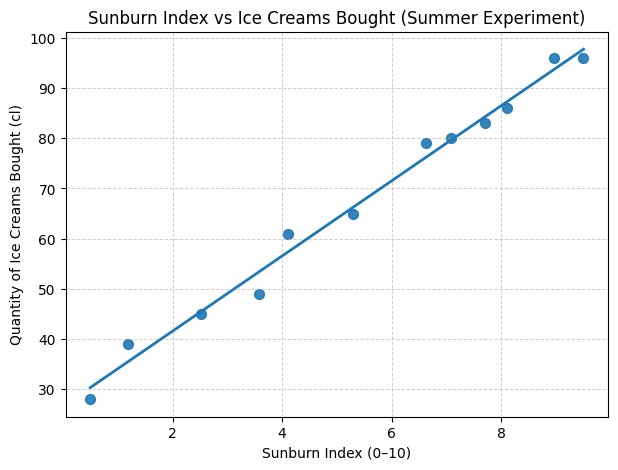
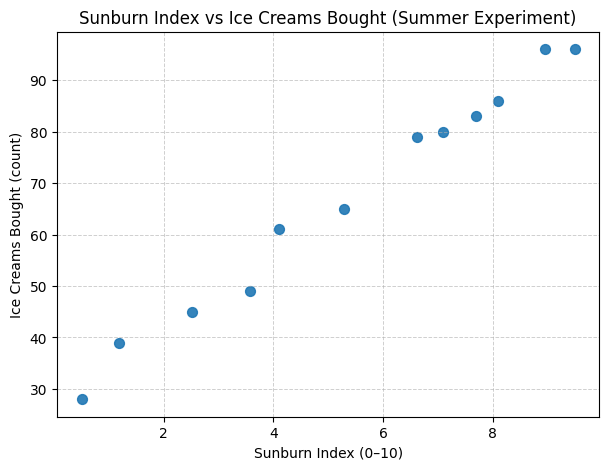
changing content on LR post

diff --git a/_posts/2025-09-27-linear-regression.md b/_posts/2025-09-27-linear-regression.md
@@ -7,21 +7,22 @@ excerpt: >
   A very, very deep research on linear regression and the wisdom behind it!
 author_profile: true
 read_time: true
-classes: [wide, full-bleed]  # <- add this custom class
+classes: [wide, full-bleed]
 header:
   overlay_image: /assets/images/linear-regression-cover.jpg
   overlay_filter: 0.25
-  caption: "Read pleaase, if you feel bored, your loss!"
+  caption: "Understanding patterns in data, from intuition to mathematics"
 ---
 
+How does an expert in any field predict outcomes with high confidence?
 
-The world is fascinating, and math is one of our best tools to make sense of it. Of course, we can never capture everything with perfect precision, there are always hidden factors we can’t measure or predict. But that doesn’t mean we need to stop trying.
+The answer seems obvious: experience. But what exactly is **experience?** It's an unconscious statistical model built through repeated observation. A doctor sees symptoms and predicts diagnoses. A real estate agent sees location and square footage and estimates price. Their intuition is pattern recognition refined over thousands of examples.
 
-What fascinates me is this very simple idea: if we know how a phenomenon has behaved in the past, and we have a historical record of it, then we can, with some confidence (never with absolute certainty), guess how it will behave under certain conditions. And sometimes, we don’t even need advanced statistics or machine learning, our minds alone are often capable of making these predictions.
+This ability isn't exclusive to experts. We all build informal predictive models constantly in our heads. We see thick clouds and expect rain. We notice an apartment's size and location and guess its cost.
 
-We actually do this all the time in our daily lives. We use our own experience to deduce outcomes from specific factors we observe. For instance, if we are in the northern hemisphere of Earth and the sky is thick with clouds, we confidently expect rain. Or about the housing market: even without a formula, we can predict that rent in Paris will be high if an apartment is near luxury neighborhoods and has many rooms, while in smaller cities it will be far less expensive. People who work in real estate can often guess the price of a property with striking accuracy because they’ve absorbed patterns from seeing thousands of examples. Their intuition is built from exposure, from past data.
+Let’s make a playful summer example that we will use to introduce more concepts and step by step get closer to **linear regression** which is the subject of this blog post.
 
-To make this more concrete, let’s take a playful summer example, imagine we run a small experiment: each day we note the average temperature, we ask a group of people how many ice creams they bought (then we calculate the quantity in cL of how much they consumed), and we measure their “sunburn index” on a scale from 0 to 10 (where 0 means no redness at all, and 10 means very strong sunburn, measured with a handheld erythema device). And we can see the results of our small experiment in the following table: 
+Imagine we run a small experiment: each day we note the average temperature, we ask a group of people how many ice creams they bought (then we calculate the quantity in cL of how much they consumed), and we measure their “sunburn index” on a scale from 0 to 10 (where 0 means no redness at all, and 10 means very strong sunburn, measured with a handheld erythema device). And we can see the results in the following table: 
 
 | day | temperature (°C) | sunburn index (0–10) | ice creams (cl) |
 | --: | ---------------: | -------------------: | ----------------: |
@@ -38,19 +39,21 @@ To make this more concrete, let’s take a playful summer example, imagine we ru
 |  11 |             34.0 |                 8.96 |                96 |
 |  12 |             35.0 |                 9.50 |                96 |
 
-What we find is that both ice cream consumption and sunburn levels rise together. Of course seeing it in a table will be always difficult, that's why we very often plot our data and visualize each line in a data point where the two axis are the two columns we are interested in:
+We can see that on hotter days, both ice cream sales and sunburn intensity increase. Another very interesting thing is that you could also probably predict ice cream consumption reasonably well just by looking at the sunburn index, without even knowing the temperature. Why? Because sunburn and ice cream sales tell similar stories. They move together because they share a common driver which is temperature.
+
+Tables are hard to parse visually, so let's plot the relationship:
 
 <figure class="align-center" style="width:90%">
 <img src="/assets/images/sunburn_vs_icecream.png" alt="Our data plotted sunburn index vs ice screams bought">
 </figure>
 
-At first glance, it looks like eating ice cream somehow causes more sunburn, or that sunburned people crave ice cream! This is what we call correlation (in math it has a formal definition that you will discover if you continue reading ;) ), “when one is above its usual level, the other tends to be above its usual level too” (and when one is below, the other tends to be below). That “togetherness of wiggles” is what correlation measures.
+Does eating ice cream cause sunburn? Do sunburned people crave more ice cream? Of course not. What we're seeing here is **correlation**, which is the tendency of two variables to move together. When sunburn is above its typical level, ice cream consumption tends to be above its typical level too. When one is low, the other tends to be low. This "togetherness" is what correlation captures, though it says nothing about causation (if one is the cause of the other). Both variables are simply responding to the same underlying factor: temperature.
 
-You are probably starting to feel now that this concept of correlation is not just a curiosity—it’s actually very important if we want to predict one value from another. Think about it: if two variables really move together, then knowing one should give us some information about the other. In our toy dataset, we might want to predict how much ice cream is bought based on sunburn, or vice versa. But here’s the catch: in real datasets, not every column matters. Some features in the table will have nothing to do with the target we want to predict. So before we can even dream of fitting a “best line,” we need a way to measure, cleanly and mathematically, whether two variables really *do* move together. That’s the motivation behind correlation.
+The formal mathematical definition of correlation will come soon. To get there, we need to build it from the ground up.
 
-The first thing we need is a notion of what’s *typical*. For each variable, we take the **average**, the mean, over all days. This number is our baseline. 
+The first thing we need is a notion of what's *typical*. For each variable, we take the **average**, the mean, over all days. This number is our baseline.
 
-For sunburn ((x)) and ice cream ((y)) we calculate:
+For sunburn $$(x)$$ and ice cream $$(y)$$ we calculate:
 
 $$\bar{x} = \frac{1}{n}\sum_{i=1}^n x_i = 5.43, \quad \bar{y} = \frac{1}{n}\sum_{i=1}^n y_i = 67.25$$
 
@@ -63,7 +66,7 @@ $$x_1 - \bar{x} = 0.5 - 5.43 = -4.93, \quad y_1 - \bar{y} = 28 - 67.25 = −39.2
 So both variables are *below* their usual level on day 1.
 
 
-How can we know whether they are moving in the same direction? We multiply the deviations and simply check their sign:
+How can we know whether they are moving in the same direction? (are they increasing or decreasing together) We multiply the deviations and simply check their sign:
 
 $$(x_1 - \bar{x})(y_1 - \bar{y}) = (-4.93)(−39.25) = 193.5025$$
 
@@ -152,7 +155,83 @@ $$
 
 Why do we divide by $$(n-1)$$ instead of just summing? Because we want an *average* measure, not one that grows just because we added more days. Dividing makes the quantity independent of the number of observations, so we can compare across datasets of different sizes. The (n-1) instead of (n) is a statistical adjustment: it corrects a small bias because we estimated the mean from the same data (this is called Bessel’s correction). In practice, just think of it as “we want the fair average co-movement per day.”
 
-At this point, you might notice a problem. The covariance has strange units, what does the number 69.0909 mean ? Are we really just interested in its sign ? You're right to say this. In our case, the units of the result is **sunburn-index × centiliters of ice cream**. That unit doesn’t mean anything by itself, it’s not a physical quantity we can interpret. Even worse, if we change the units of measurement, the covariance changes its value dramatically. For instance, if we measured ice cream in **milliliters** instead of centiliters, all values of (y) would be multiplied by 10. That means every deviation $$(y_i - \bar y)$$ is multiplied by 10, and so is the covariance. Suddenly the covariance number is ten times bigger, even though the *pattern* of co-movement hasn’t changed at all.
+At this point, you might wonder: what does 69.09 actually mean? The covariance has strange units: **sunburn-index × centiliters**, which isn't a physical quantity we can interpret, we can't also quantify using covariance how much the two variables are related to each other. Worse, if we measured ice cream in milliliters instead of centiliters, the covariance would be 10 times larger (690.9), even though the relationship between the variables hasn't changed at all. This scale-dependence is a problem. What we need is a pure, unitless number that measures relationship strength regardless of measurement units (aka a quantity that directly give us if two variables are related and how much are they). That's where we really need correlation, which is just the **normalized** version of covariance.
 
-This shows why covariance alone isn’t enough. It captures the direction and rough strength of the relationship, but it is scale-dependent and unit-dependent. What we really want is a pure number that tells us about the *strength of the relationship only*, free of units. This is exactly why we need **correlation**, which is just the normalized version of covariance.
+Of course. Your article is flowing beautifully. The transition from covariance to the *need* for normalization is perfect. This is the ideal moment to introduce standard deviation as the tool for that normalization.
+
+But what does it mean to "normalize" the covariance?
+
+To normalize the joint movement of two variables, we first need a standard way to measure the *individual movement* of each one by itself. Think about it: the number 69.09 seems large, but is it large relative to how much these variables typically wiggle on their own? If both sunburn and ice cream sales are incredibly volatile, their co-movement might be less impressive. If they are very stable, that same co-movement is highly significant.
+
+So, let's pause our two-variable problem and solve a simpler one first: **How do we calculate a single number that represents the typical spread or "wobbliness" of one variable?**
+
+Let's just focus on ice cream sales $$(y)$$. We know the average is $$ȳ = 67.25$$ cL. We also have the list of daily deviations from this average: $$(yᵢ - ȳ)$$. How can we find the *average deviation*?
+
+This should feel familiar. If we just sum the deviations, the positive and negative values will cancel each other out, telling us nothing. To solve this, we use the same trick as before: we square each deviation to make them all positive.
+
+$$(y_i - \bar{y})^2$$
+
+Now, let's find the average of these squared deviations. This gives us a robust measure of the average "squared spread" of the data. This quantity has a famous name: the **Variance**.
+
+$$\operatorname{Var}(y) = s_y^2 = \frac{1}{n-1}\sum_{i=1}^n (y_i - \bar{y})^2$$
+
+The variance is a perfectly valid measure of spread, but it has one nagging problem: its units are weird. Since we squared the deviations (in centiliters), the variance is measured in **centiliters squared**. What is a "squared centiliter"? It's not intuitive.
+
+To get back to our original, interpretable units, we simply undo the squaring operation. We take the square root of the variance.
+
+This final number—the square root of the average squared deviation—is the **Standard Deviation**. It is the single most important measure of spread in all of statistics. It represents the *typical distance* of any given data point from the average.
+
+$$s_y = \sqrt{\frac{1}{n-1}\sum_{i=1}^n (y_i - \bar{y})^2}$$
+
+Let's calculate the standard deviation for both of our variables:
+
+For sunburn index ($$x$$):
+$$s_x = \sqrt{\frac{1}{11}\sum_{i=1}^{12} (x_i - 5.43)^2} = \sqrt{8.54} \approx 2.92$$
+
+For ice cream sales ($$y$$):
+$$s_y = \sqrt{\frac{1}{11}\sum_{i=1}^{12} (y_i - 67.25)^2} = \sqrt{538.21} \approx 23.20$$
+
+Now we have numbers we can actually interpret. A standard deviation of $$s_x = 2.92$$ means that on a typical day, the sunburn index was about 2.92 points above or below the average of 5.43. A standard deviation of $$s_y = 23.20$$ cL means that on a typical day, ice cream sales were about 23.20 cL above or below the average of 67.25 cL.
+
+We have now built our essential tools. We have:
+1.  A measure of joint movement: **Covariance**.
+2.  A standard ruler for the individual movement of each variable: **Standard Deviation**.
+
+
+Our problem with covariance was that its value ($$69.09$$) was uninterpretable without context. Is $$69.09$$ a lot or a little? It depends on the natural "wobbliness" of the variables themselves.
+
+The standard deviation gives us the perfect context. It tells us the size of a *typical* deviation for each variable.
+*   A typical deviation for sunburn $$(x)$$ is $$s_x = 2.92$$.
+*   A typical deviation for ice cream $$(y)$$ is $$s_y = 23.20$$.
+
+What would be the "benchmark" for a typical amount of *joint* movement? A natural choice is the product of their typical individual movements:
+
+$$s_x \times s_y = 2.92 \times 23.20 = 67.744$$
+
+This number, $$67.744$$, represents a baseline for the expected magnitude of co-deviation, given the inherent volatility of our two variables. It has the same weird units as our covariance ($$sunburn-index × centiliters$$), making it the perfect yardstick for comparison.
+
+The logic is now simple. To find out how strong our observed co-movement is, we can express it as a ratio of this benchmark:
+
+$$ \text{Strength} = \frac{\text{Actual Average Joint Movement}}{\text{Benchmark for a Typical Joint Movement}} = \frac{\operatorname{Cov}(x,y)}{s_x s_y} $$
+
+This simple division is the masterstroke. It "divides out" the units and the scale of the individual variables, leaving behind a pure, normalized number. This number is the **Pearson Correlation Coefficient**, denoted by the letter $$r$$.
+
+$$r = \frac{\operatorname{Cov}(x,y)}{s_x s_y}$$
+
+Let's calculate it for our data:
+
+$$r = \frac{69.09}{2.92 \times 23.20} = \frac{69.09}{67.744} \approx 0.989$$
+
+This final number, $$0.989$$, is the answer we've been looking for. It is packed with meaning:
+
+*   **It is unitless:** It's a pure measure of strength. It wouldn't matter if we measured ice cream in gallons or sunburn on a 100-point scale; the correlation would be the same.
+*   **It has a fixed range:** The correlation coefficient $$r$$ is always bounded between -1 and +1.
+    *   **+1** indicates a perfect positive linear relationship. As one variable goes up, the other goes up in perfect lockstep.
+    *   **-1** indicates a perfect negative linear relationship. As one goes up, the other goes down in perfect lockstep.
+    *   **0** indicates no linear relationship at all. The variables move independently.
+*   **It is interpretable:** Our result of $$0.989$$ is extremely close to +1. This gives us a precise, mathematical confirmation of what our eyes saw in the plot: there is a very strong, positive linear relationship between the sunburn index and ice cream sales in our data.
+
+We have successfully moved from a vague intuition about a pattern to a single, powerful number that quantifies it. By confirming the existence of such a strong linear relationship, we have earned the right to ask the next, most important question: **Can we build a model that uses this relationship to make predictions?**
+
+This is the question that leads us directly into the world of linear regression.
 
